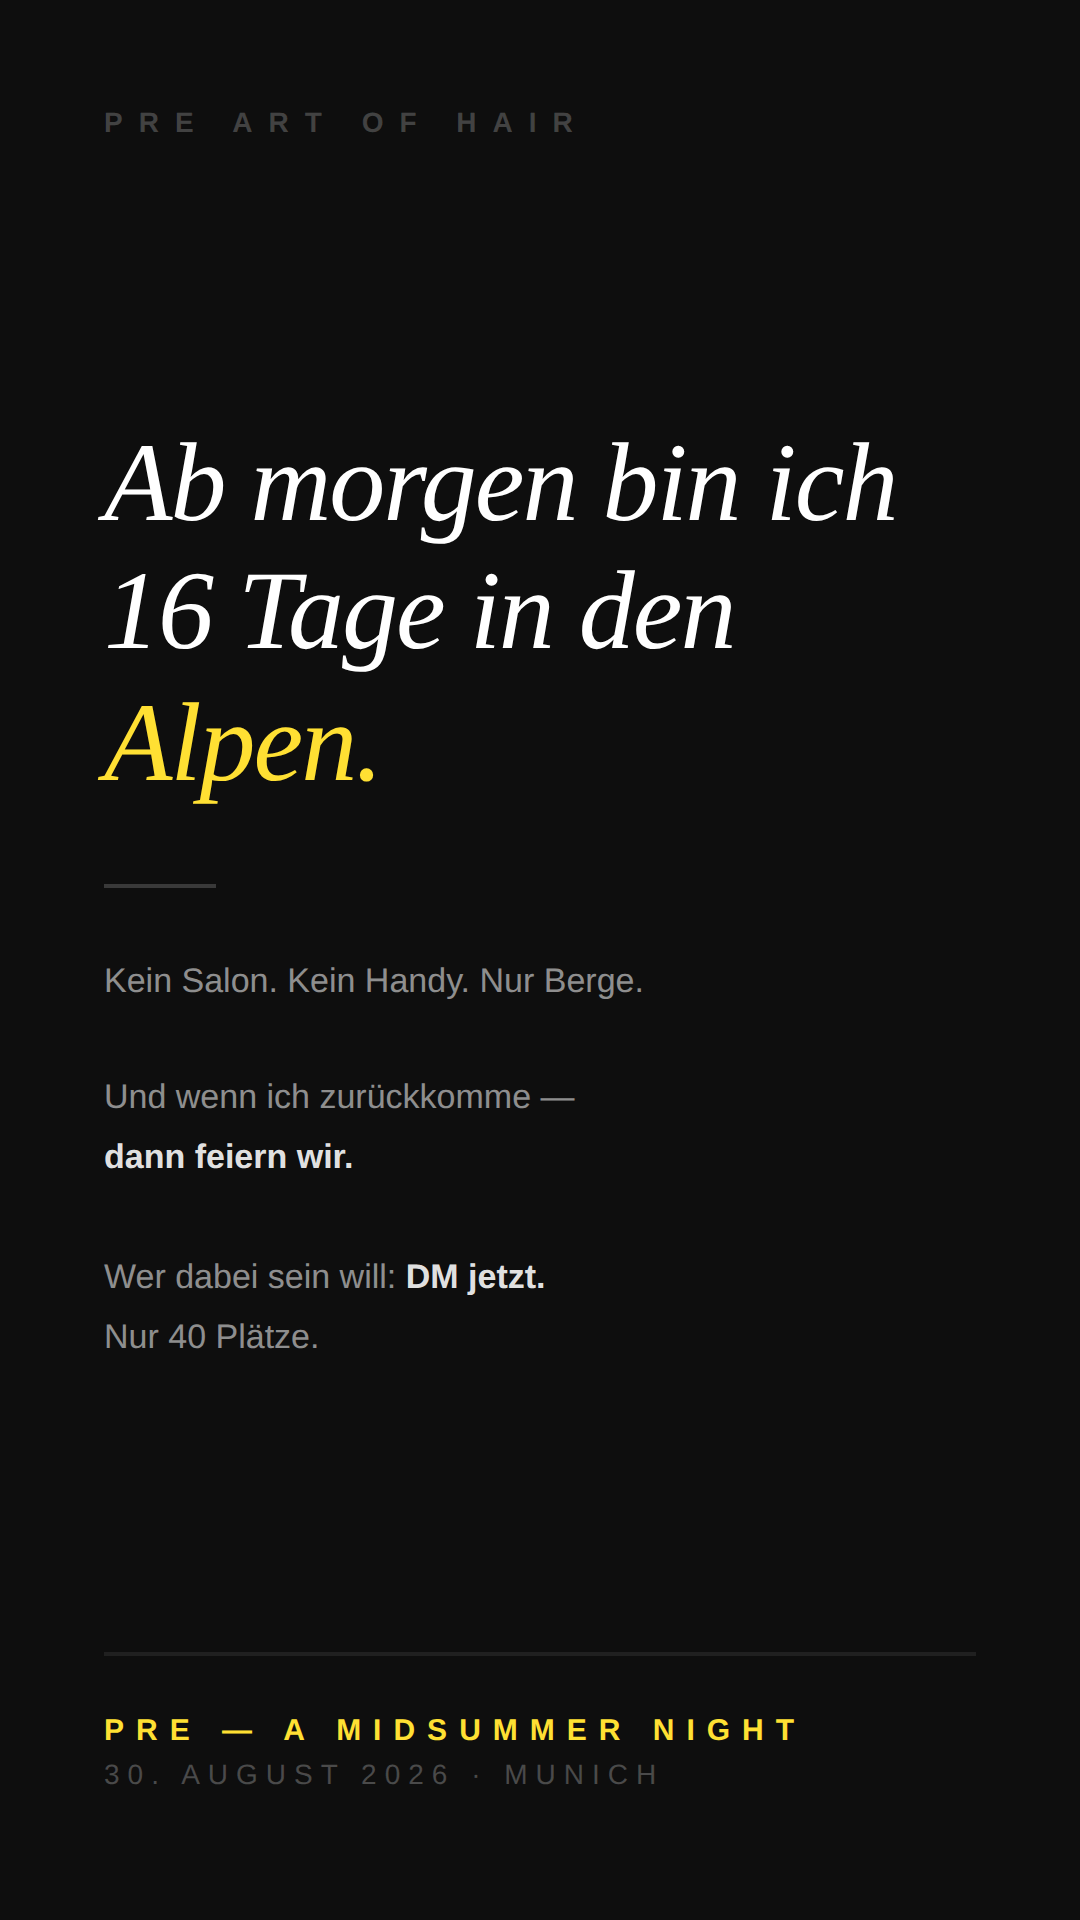
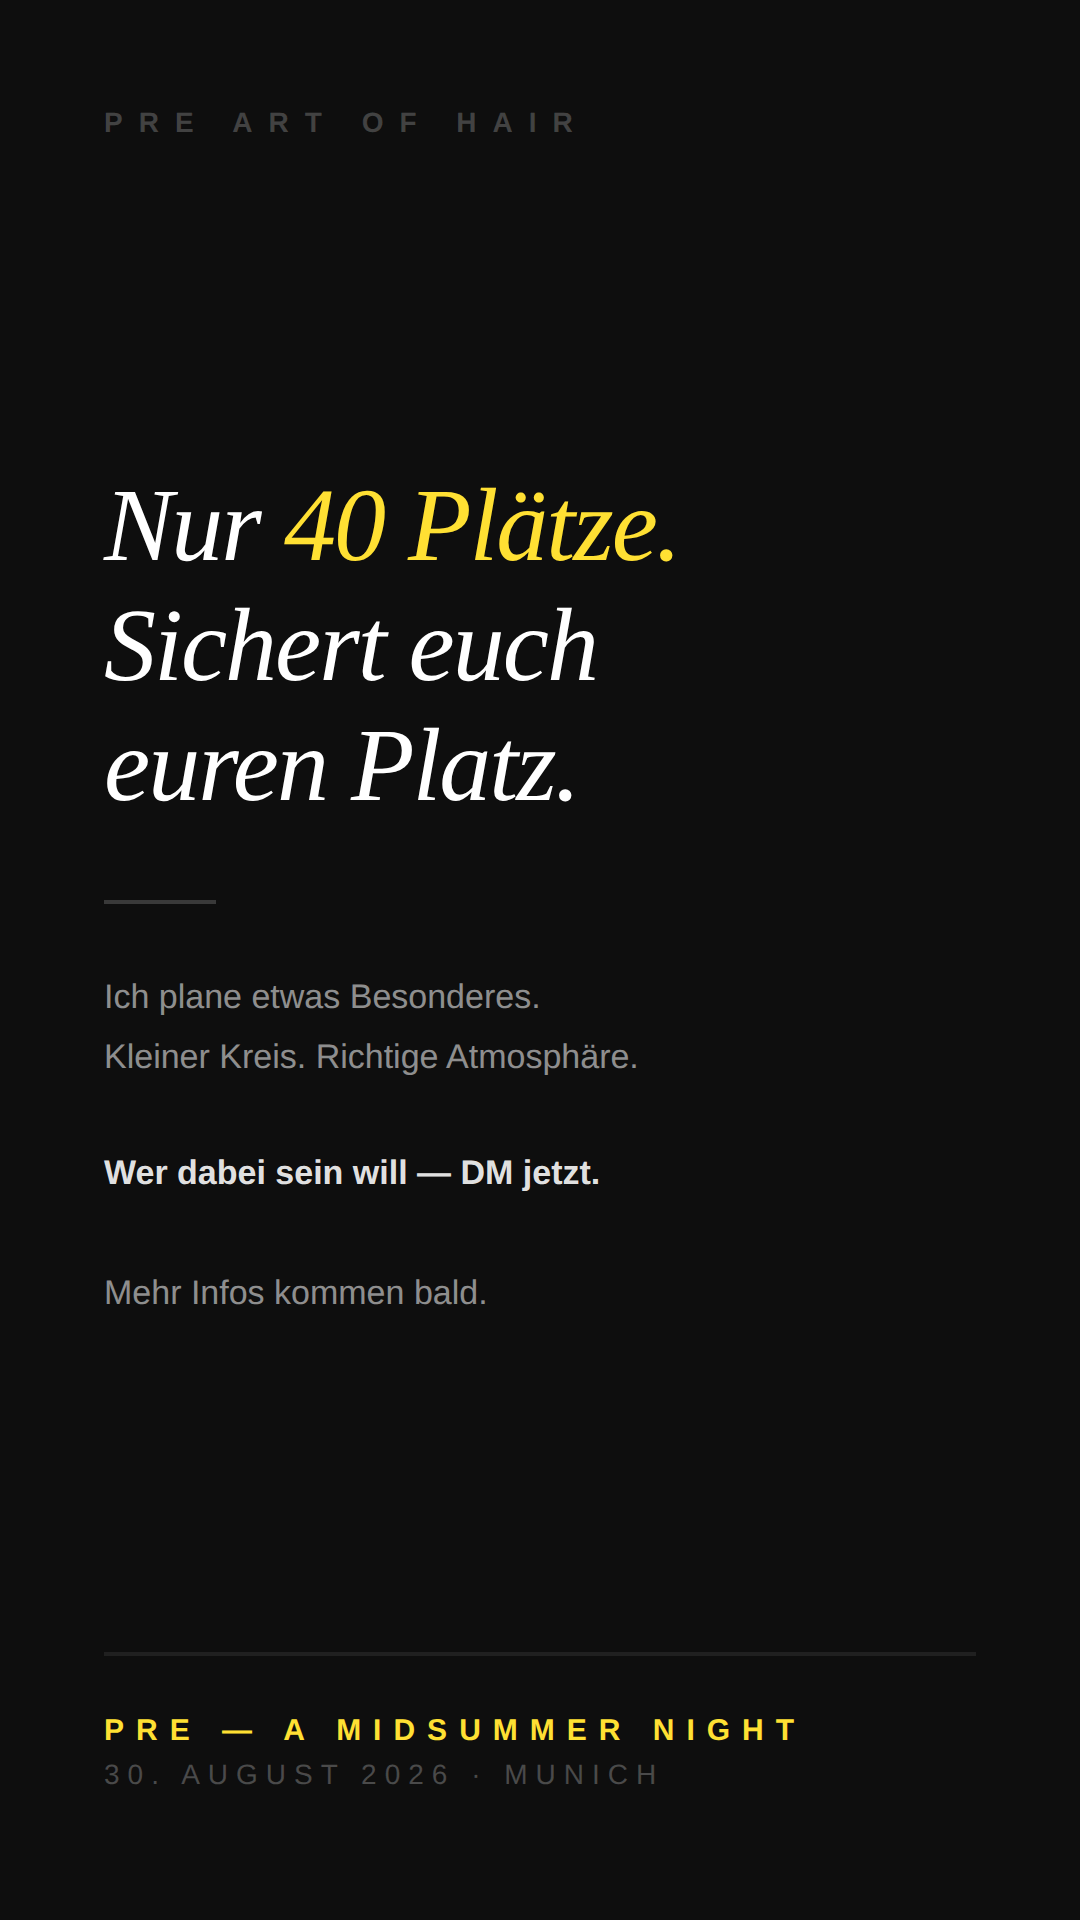
Fix August 4 story — remove Alpen reference, focus on securing event spots
Claude-Session: https://claude.ai/code/session_01BaC8m9wAmbtKccXQSCmnYc

Changed region(s): [[0.0917, 0.2188, 0.825, 0.4375], [0.0917, 0.5, 0.5806, 0.625], [0.0917, 0.6562, 0.4889, 0.7188]]

diff --git a/story-aug14-text.html b/story-aug14-text.html
@@ -40,7 +40,7 @@
       font-family: 'Cormorant Garamond', serif;
       font-style: italic;
       font-weight: 200;
-      font-size: 28px;
+      font-size: 26px;
       color: #fff;
       line-height: 1.15;
       letter-spacing: -0.5px;
@@ -95,17 +95,16 @@
 
     <div class="middle">
       <div class="big">
-        Ab morgen bin ich<br>
-        16 Tage in den<br>
-        <span class="yellow">Alpen.</span>
+        Nur <span class="yellow">40 Plätze.</span><br>
+        Sichert euch<br>
+        euren Platz.
       </div>
       <div class="rule"></div>
       <div class="body-text">
-        Kein Salon. Kein Handy. Nur Berge.<br><br>
-        Und wenn ich zurückkomme —<br>
-        <b>dann feiern wir.</b><br><br>
-        Wer dabei sein will: <b>DM jetzt.</b><br>
-        Nur 40 Plätze.
+        Ich plane etwas Besonderes.<br>
+        Kleiner Kreis. Richtige Atmosphäre.<br><br>
+        <b>Wer dabei sein will — DM jetzt.</b><br><br>
+        Mehr Infos kommen bald.
       </div>
     </div>
 
